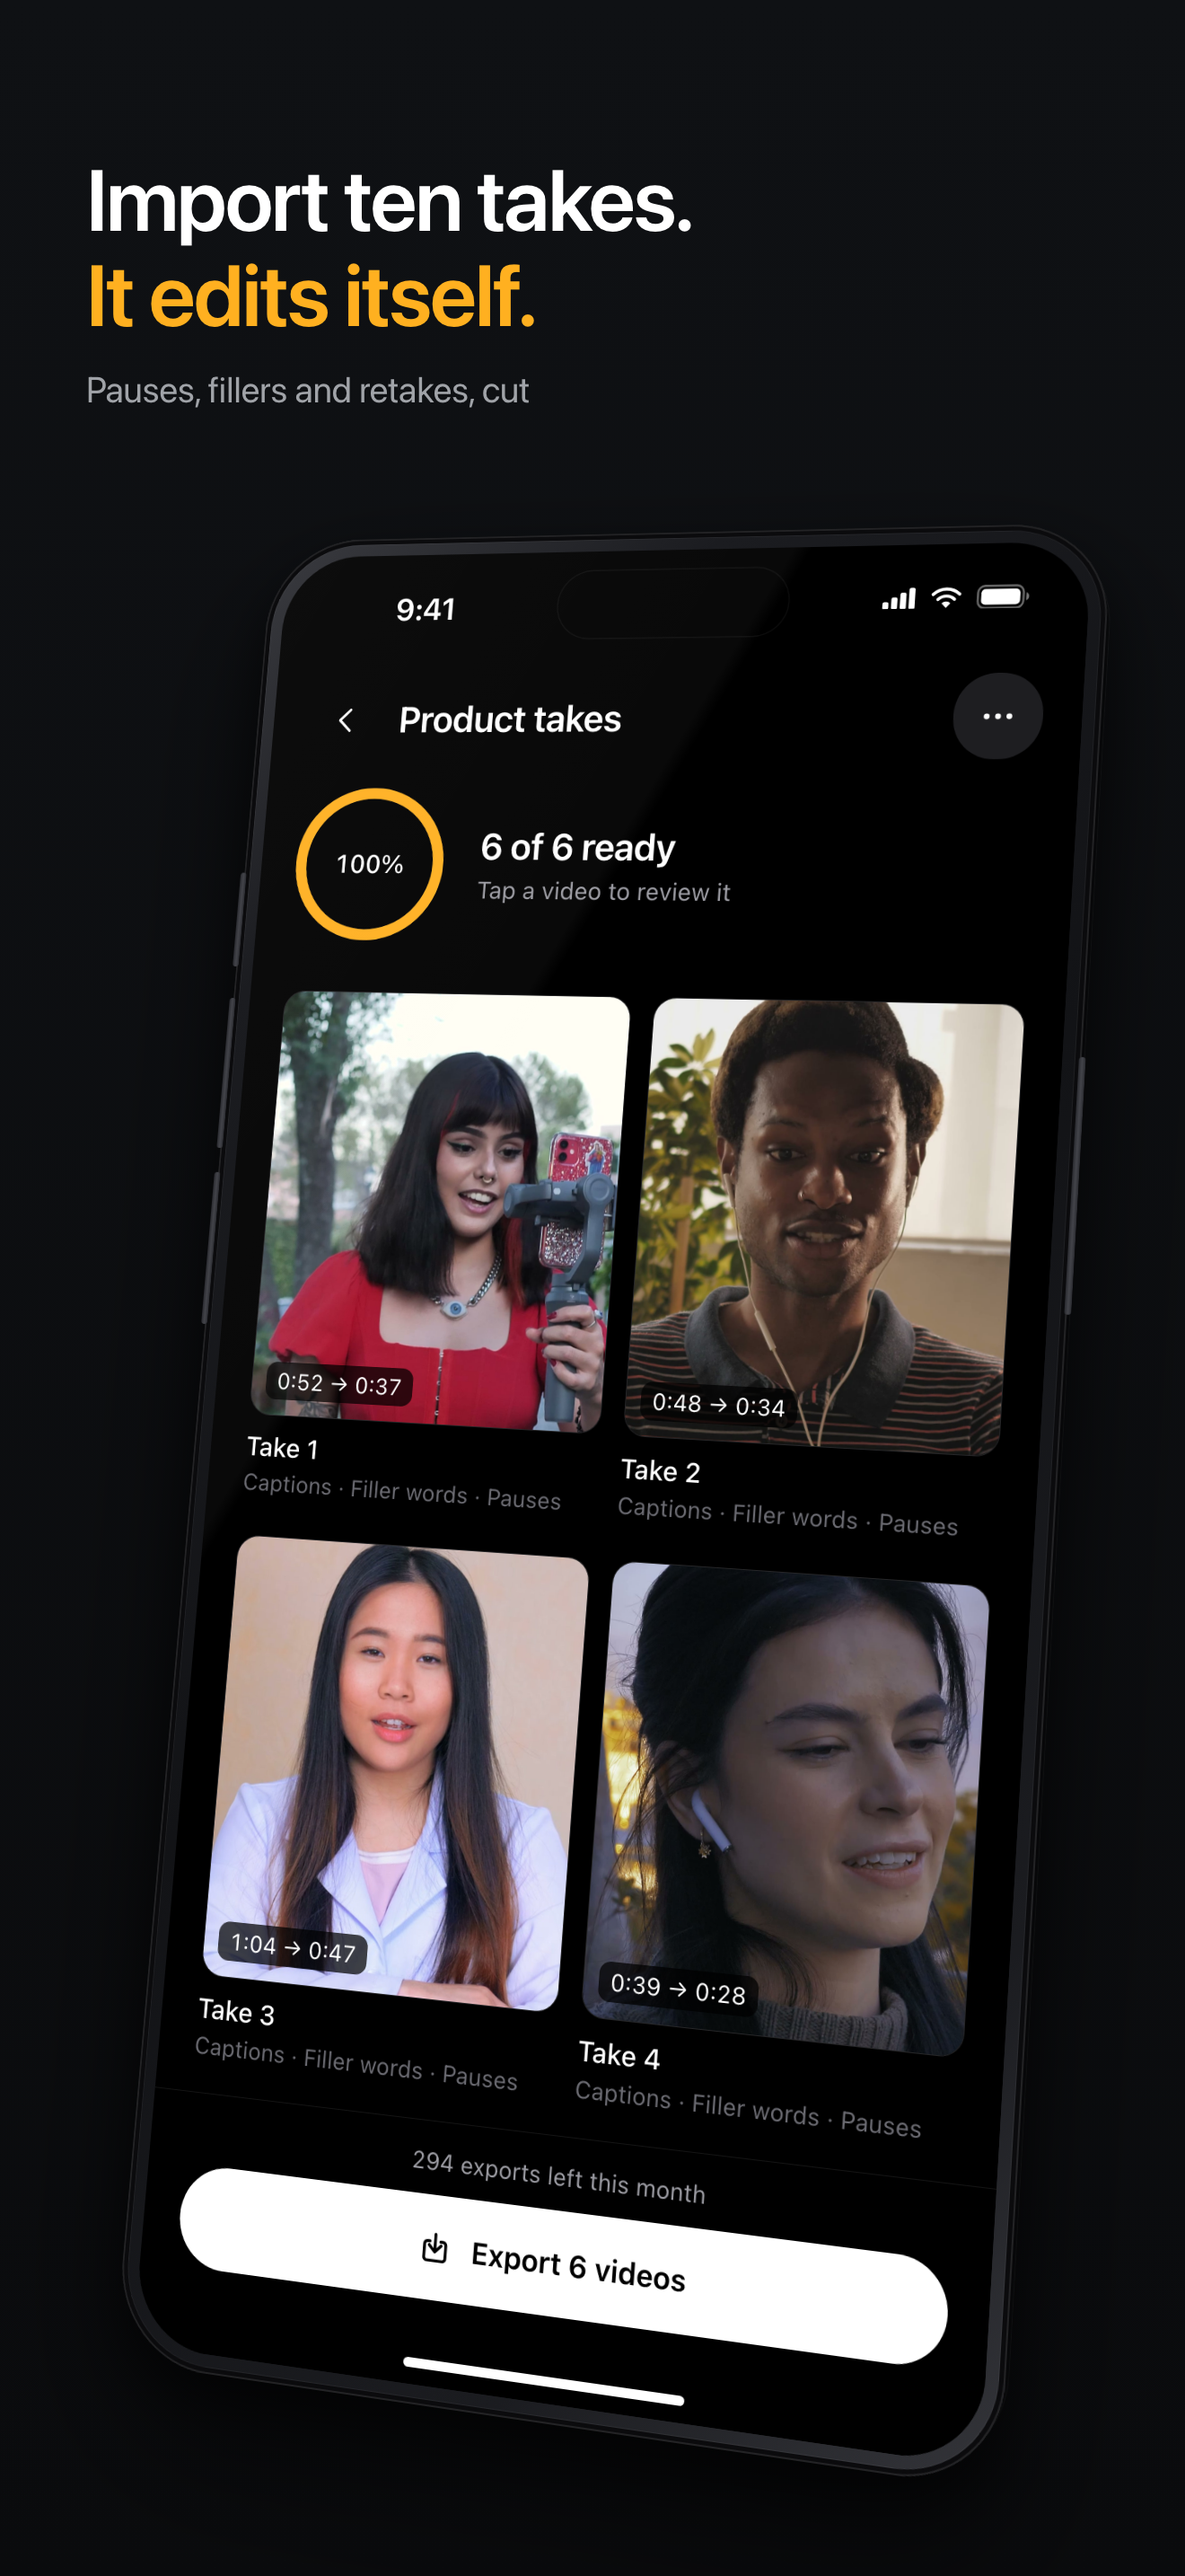
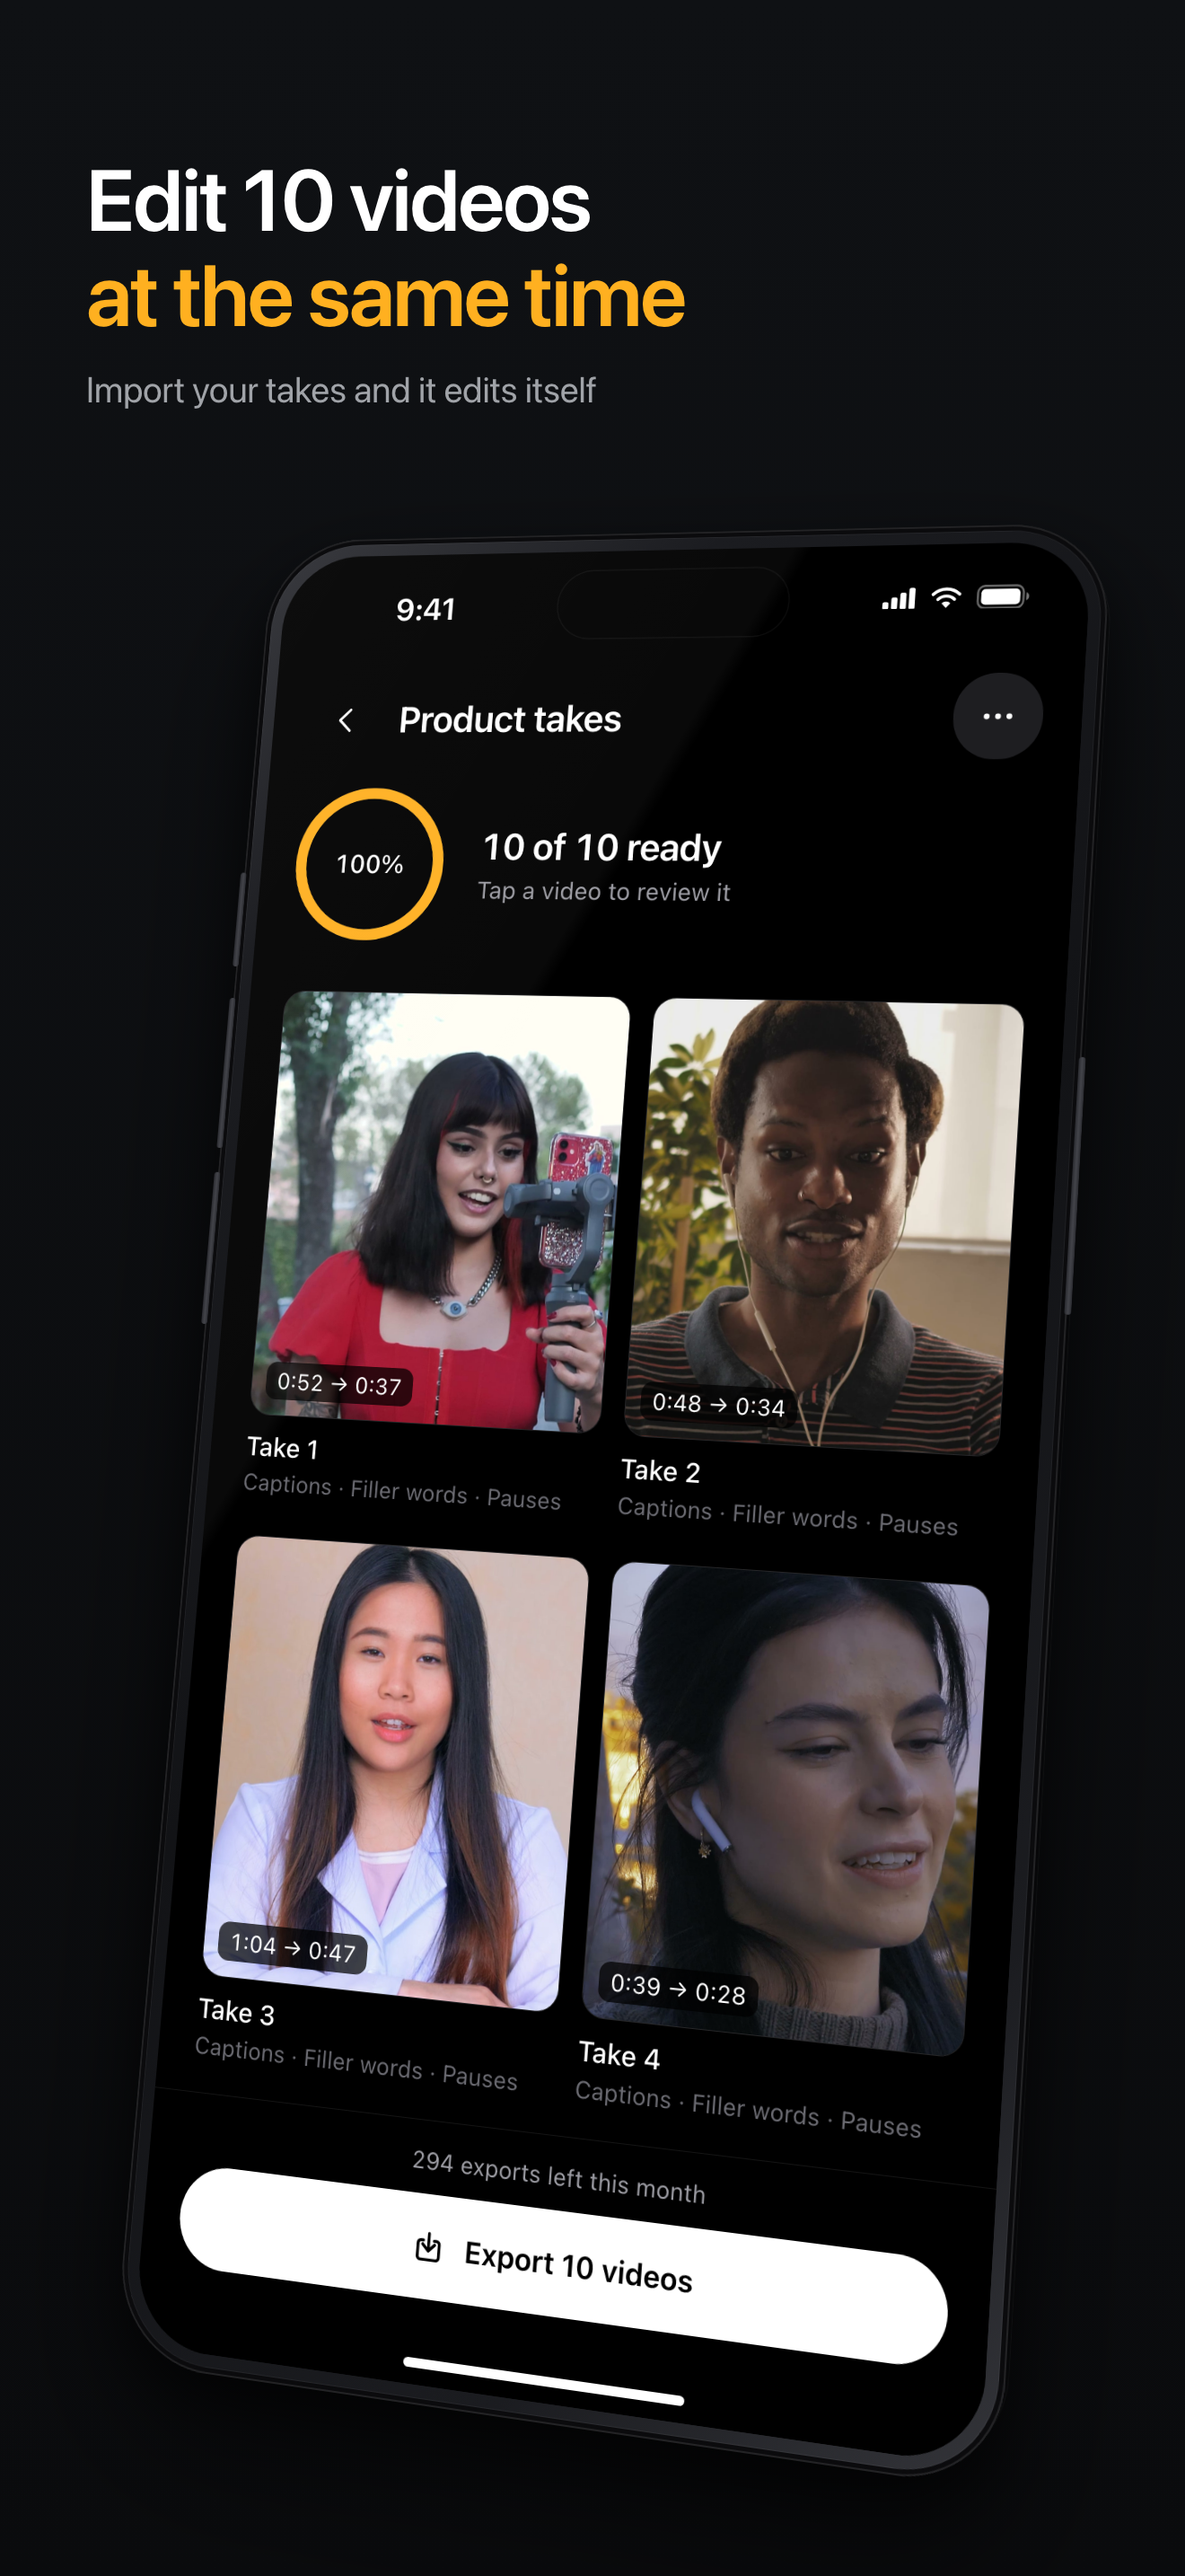
Screenshots: plainer headlines without trailing punctuation; batch screen shows 10 videos

Changed region(s): [[0.0621, 0.0621, 0.5902, 0.1552], [0.3417, 0.8689, 0.5902, 0.8999], [0.4038, 0.3103, 0.6212, 0.3414]]

diff --git a/marketing/screenshots/src/01-batch.html b/marketing/screenshots/src/01-batch.html
@@ -105,8 +105,8 @@ h1 em{font-style:normal;color:#FFB020}
 <body>
 <div class="stage">
   <div class="head">
-    <h1><span>Import ten takes.</span><br><span><em>It edits itself.</em></span></h1>
-    <div class="sub">Pauses, fillers and retakes, cut</div>
+    <h1><span>Edit 10 videos</span><br><span><em>at the same time</em></span></h1>
+    <div class="sub">Import your takes and it edits itself</div>
   </div>
   <div class="pw">
     <div class="phone" style="left:152px;top:488.60000000000014px;transform:rotateY(-15deg) rotateX(7deg) rotateZ(2.5deg) scale(0.94);z-index:1">
@@ -130,7 +130,7 @@ h1 em{font-style:normal;color:#FFB020}
     </svg>
     <div class="fill row" style="justify-content:center"><span class="t14 tab">100%</span></div>
   </div>
-      <div class="col" style="flex:1;gap:2px"><div class="t20 tab">6 of 6 ready</div><div class="t13 c2">Tap a video to review it</div></div>
+      <div class="col" style="flex:1;gap:2px"><div class="t20 tab">10 of 10 ready</div><div class="t13 c2">Tap a video to review it</div></div>
     </div>
     <div class="abs" style="top:242px;left:20px;right:20px;display:flex;flex-wrap:wrap;column-gap:12px;row-gap:20px">
       <div class="col" style="width:194px;gap:8px">
@@ -157,7 +157,7 @@ h1 em{font-style:normal;color:#FFB020}
     </div>
     <div class="abs col" style="left:0;right:0;bottom:0;padding:12px 20px 42px;gap:8px;background:rgba(0,0,0,.96);border-top:.5px solid rgba(255,255,255,0.08)">
       <div class="t12 c2 tab" style="text-align:center">294 exports left this month</div>
-      <div class="btn" style="height:52px;border-radius:26px"><svg class="ic" width="18" height="18" viewBox="0 0 24 24" fill="none" stroke="currentColor" stroke-width="2" stroke-linecap="round" stroke-linejoin="round" style="color:#000;"><path d="M12 3.2v11.3M7.8 10.4l4.2 4.2 4.2-4.2"/><path d="M8.2 7.8H6.5a2 2 0 00-2 2v8.7a2 2 0 002 2h11a2 2 0 002-2V9.8a2 2 0 00-2-2h-1.7"/></svg><span>Export 6 videos</span></div>
+      <div class="btn" style="height:52px;border-radius:26px"><svg class="ic" width="18" height="18" viewBox="0 0 24 24" fill="none" stroke="currentColor" stroke-width="2" stroke-linecap="round" stroke-linejoin="round" style="color:#000;"><path d="M12 3.2v11.3M7.8 10.4l4.2 4.2 4.2-4.2"/><path d="M8.2 7.8H6.5a2 2 0 00-2 2v8.7a2 2 0 002 2h11a2 2 0 002-2V9.8a2 2 0 00-2-2h-1.7"/></svg><span>Export 10 videos</span></div>
     </div>
         <div class="sb-time">9:41</div>
   <div class="sb-right">

diff --git a/marketing/screenshots/src/04-timeline.html b/marketing/screenshots/src/04-timeline.html
@@ -105,8 +105,8 @@ h1 em{font-style:normal;color:#FFB020}
 <body>
 <div class="stage">
   <div class="head">
-    <h1><span>A real editor,</span><br><span><em>when you want it.</em></span></h1>
-    <div class="sub">Trim, split, reorder on a full timeline</div>
+    <h1><span>A real editor</span><br><span><em>when you want it</em></span></h1>
+    <div class="sub">Trim, split and move clips around</div>
   </div>
   <div class="pw">
     <div class="phone" style="left:172px;top:488.60000000000014px;transform:rotateY(-14deg) rotateX(8deg) rotateZ(2deg) scale(0.94);z-index:1">

diff --git a/marketing/screenshots/src/02-demo.html b/marketing/screenshots/src/02-demo.html
@@ -105,8 +105,8 @@ h1 em{font-style:normal;color:#FFB020}
 <body>
 <div class="stage">
   <div class="head">
-    <h1><span>Post-ready</span><br><span><em>in minutes.</em></span></h1>
-    <div class="sub">From raw clips to finished videos</div>
+    <h1><span>Cuts the silences</span><br><span><em>and the ums</em></span></h1>
+    <div class="sub">No more trimming by hand</div>
   </div>
   <div class="pw">
     <div class="phone" style="left:182px;top:483.60000000000014px;transform:rotateY(-18deg) rotateX(6deg) rotateZ(3deg) scale(0.94);z-index:1">

diff --git a/marketing/screenshots/src/03-captions.html b/marketing/screenshots/src/03-captions.html
@@ -105,8 +105,8 @@ h1 em{font-style:normal;color:#FFB020}
 <body>
 <div class="stage">
   <div class="head">
-    <h1><span>Captions on</span><br><span><em>every word.</em></span></h1>
-    <div class="sub">12 styles. Restyle any of them.</div>
+    <h1><span>Captions on</span><br><span><em>every word</em></span></h1>
+    <div class="sub">Pick a style and it’s done</div>
   </div>
   <div class="pw">
     <div class="phone" style="left:132px;top:493.60000000000014px;transform:rotateY(14deg) rotateX(6deg) rotateZ(-2.5deg) scale(0.94);z-index:1">

diff --git a/marketing/screenshots/src/05-export.html b/marketing/screenshots/src/05-export.html
@@ -105,8 +105,8 @@ h1 em{font-style:normal;color:#FFB020}
 <body>
 <div class="stage">
   <div class="head">
-    <h1><span>Ten videos,</span><br><span><em>one tap.</em></span></h1>
-    <div class="sub">Export the whole batch to Photos</div>
+    <h1><span>10 videos</span><br><span><em>one tap</em></span></h1>
+    <div class="sub">Save them all to Photos at once</div>
   </div>
   <div class="pw">
     <div class="phone" style="left:162px;top:488.60000000000014px;transform:rotateY(-14deg) rotateX(6deg) rotateZ(2.5deg) scale(0.94);z-index:1">
